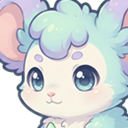
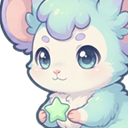
パタリとゴロムの絵を入れ、顔のアイコンを両目のまん中にそろえて切り直す

diff --git a/src/render/art.ts b/src/render/art.ts
@@ -4,12 +4,12 @@
  */
 
 /** 絵のファイルがあるもの。player は主人公、ほかは魔物の id（ファイル名は monster_<id>.png） */
-const ART_IDS = new Set(['player', 'izutsuchi', 'chuppi', 'berogg', 'pokotake', 'shururu', 'garuf', 'kaburamu', 'moyari', 'hidamari']);
+const ART_IDS = new Set(['player', 'izutsuchi', 'chuppi', 'berogg', 'pokotake', 'shururu', 'garuf', 'kaburamu', 'moyari', 'hidamari', 'patari', 'goromu']);
 
 const fileOf = (id: string) => (id === 'player' ? 'art/player.png' : `art/monster_${id}.png`);
 
 /** 顔のアイコンの絵があるもの（全身の絵から scripts/crop-face.ps1 で切り出す） */
-const FACE_IDS = new Set(['player', 'izutsuchi', 'chuppi', 'berogg', 'pokotake', 'shururu', 'garuf', 'kaburamu', 'moyari', 'hidamari']);
+const FACE_IDS = new Set(['player', 'izutsuchi', 'chuppi', 'berogg', 'pokotake', 'shururu', 'garuf', 'kaburamu', 'moyari', 'hidamari', 'patari', 'goromu']);
 
 /** 丸い枠に入れる顔。絵がなければ fallback の絵文字を文字で出す */
 export function faceElement(id: string, fallback: string): HTMLElement {

diff --git a/public/sw.js b/public/sw.js
@@ -1,7 +1,7 @@
 // オフラインでも遊べるようにする（requirements.md 2章）。
 // 通信できるときは常に新しいものを取りに行き、取れたものを保存しておく。通信できないときは保存したものを使う
 // 保存の仕方を変えたときだけ名前を変える。ビルドごとに変える必要はない
-const CACHE = 'summoner-v17';
+const CACHE = 'summoner-v18';
 
 // 入れたときに、ページと、ページが読み込むファイル（ビルドで名前が変わる）を先に保存する
 self.addEventListener('install', (event) => {

diff --git a/docs/art-guide.md b/docs/art-guide.md
@@ -83,7 +83,7 @@ No sparkles, no particles, no glow or aura around the character. No ground shado
 4. できた絵を送ってもらえれば、私がゲームに入れる
    - `scripts/key-art.ps1` で緑の背景を抜き、余白をそろえた 256×256 の PNG にして `public/art/` に置く
    - `src/render/art.ts` の `ART_IDS` に id を足す。絵がないものは絵文字のまま出る
-   - 顔のアイコンは `scripts/crop-face.ps1` で全身の絵から切り出し、`face_<id>.png` にする。`FACE_IDS` に id を足す
+   - 顔のアイコンは `scripts/crop-face.ps1` で全身の絵から切り出し、`face_<id>.png` にする。`FACE_IDS` に id を足す。切り出すときは、両目のまん中を横の中心に、目の高さを上から 45% にそろえる（幅は両目の間の約3倍）。こうすると、どの顔も丸い枠の中で同じ所に目が来る
 
 ### 2体目からの指示文
 **英語**
@@ -117,7 +117,7 @@ Subject: [魔物の説明（下の表の英語）]
 | goromu | ゴロム | 石のゴーレム。丸い石を積んだ体、苔が少し生えている。どっしりしていて、やさしい目 | A stone golem made of stacked round stones with a little moss. Heavy and sturdy, with kind eyes. |
 
 - 寒色の決まりがあるが、ヒダマリ（火）とポコタケ（キノコ）は暖色を使ってよい。輪郭線と塗り方をそろえれば、絵柄は保てる
-- 絵が入っているもの：主人公、イヅツチ、チュッピ、ベロッグ、ポコタケ、シュルル、ガルフ、カブラム、モヤリ、ヒダマリ（この絵柄で決まり）。まだのもの：パタリ、ゴロム
+- 絵が入っているもの：主人公、イヅツチと、6の表の魔物すべて（この絵柄で決まり）
 
 ## 7. アイテムとアイコン（Recraft）
 Recraft では、最初に絵柄（スタイル）を1つ作り、すべてのアイコンをその絵柄で作る。
